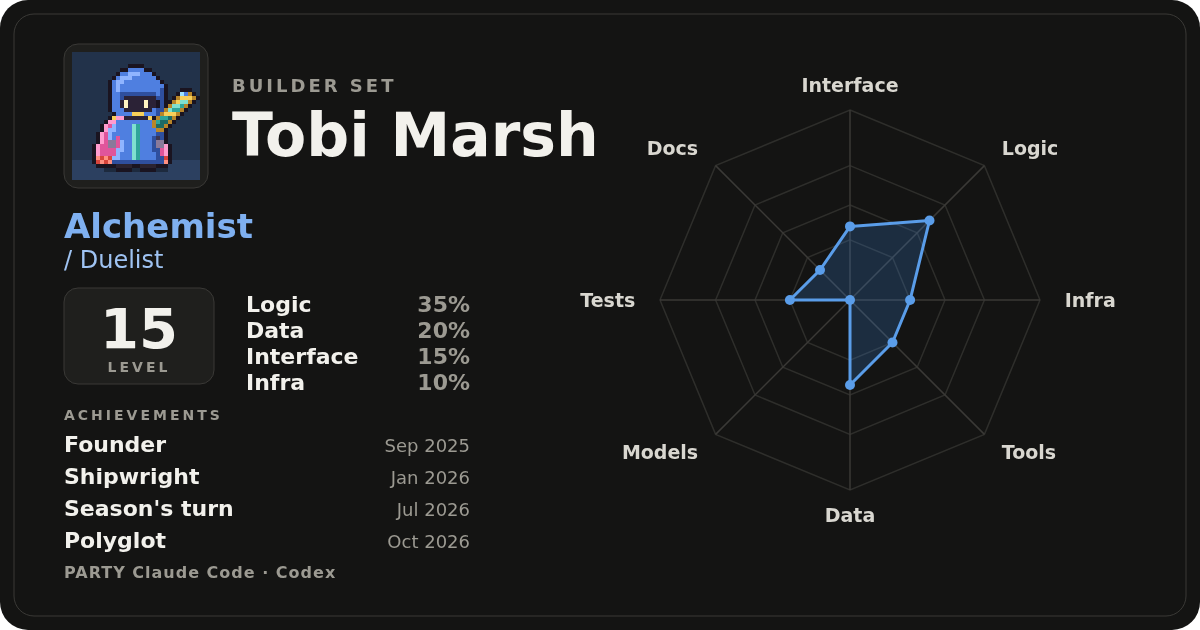
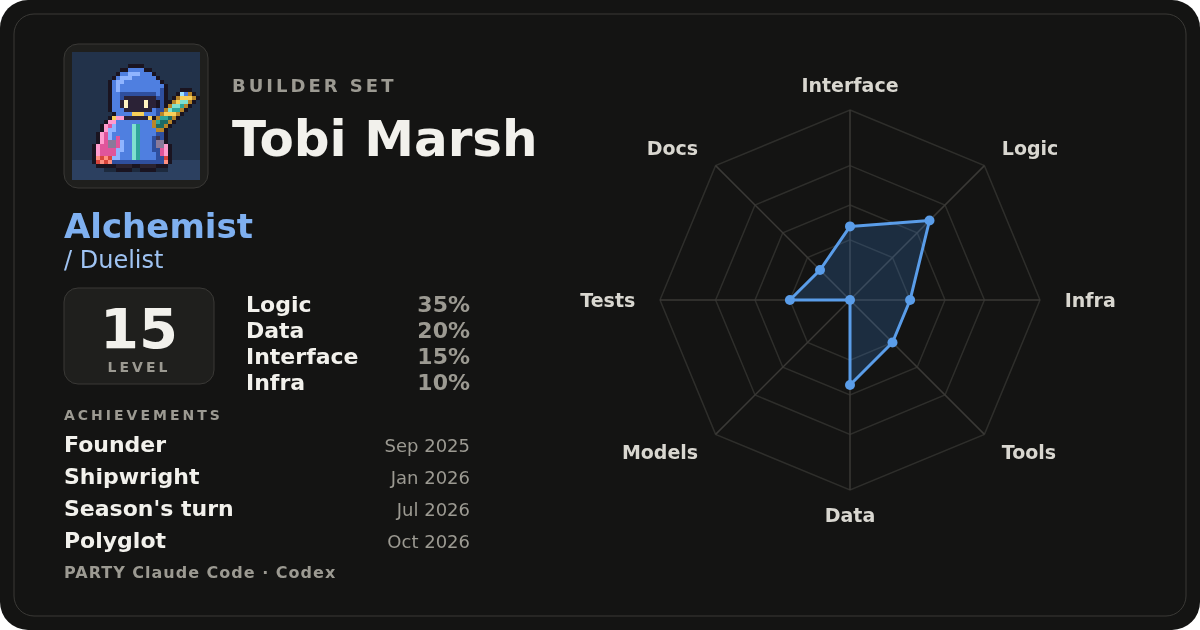
Card name steps down by glyph width and stays clear of the radar
The name's size comes from a fixed table of bold glyph widths, so wide names shrink
until they end at x 560, at least 16 px before the radar's top-left label. A test
checks names up to 28 characters, all-W names included.

Claude-Session: https://claude.ai/code/session_01VEmKQtCYERGHMJsPNdzkYW

Changed region(s): [[0.185, 0.1508, 0.4933, 0.2714]]

diff --git a/src/tinkerprint/render_card.py b/src/tinkerprint/render_card.py
@@ -69,7 +69,7 @@ def render_card(card: dict, pack: dict | None = None) -> str:
     out.append("</g>")
     # Left column: who and what.
     out.append(_t(TX, 92, v["set"], 18, 600, "#9c9a92", spacing="3"))
-    out.append(_t(TX, 156, v["name"], _fit(v["name"], 60, LEFT_WIDTH - (TX - 64)), 700))
+    out.append(_t(TX, 156, v["name"], name_size(v["name"]), 700))
     # Class names are never cut. Each line shrinks until it fits the left column.
     out.append(_t(64, 238, v["class"], _fit(v["class"], 34), 600, "#7fb0f0"))
     if v["multiclass"]:
@@ -143,6 +143,37 @@ def _bars(bars: list) -> list:
 
 
 LEFT_WIDTH = 540  # px from x=64 before the chart begins
+
+
+NAME_RIGHT = 560  # the name ends here, clear of the radar's top-left spoke label
+
+# Generous bold glyph widths in em, by class, so the widest system fonts still fit.
+_WIDE, _NARROW, _THIN = set("WMmw@"), set("ijlI.,'|!:;"), set("ftr")
+
+
+def text_em(text: str) -> float:
+    """The width of bold text in em: a fixed table, deterministic, on the wide side."""
+    em = 0.0
+    for ch in text:
+        if ch in _WIDE:
+            em += 1.05
+        elif ch in _NARROW:
+            em += 0.36
+        elif ch == " ":
+            em += 0.35
+        elif ch in _THIN:
+            em += 0.48
+        elif ch.islower():
+            em += 0.68
+        else:
+            em += 0.82
+    return em
+
+
+def name_size(name: str) -> int:
+    """The name's font size: 60 px, stepped down until the name fits between the portrait and
+    NAME_RIGHT. Deterministic, never cut beyond the card's 22-character clip."""
+    return max(12, min(60, int((NAME_RIGHT - TX) / max(1.0, text_em(name)))))
 
 
 def _fit(text: str, size: int, width: int = LEFT_WIDTH) -> int:

diff --git a/tests/test_art.py b/tests/test_art.py
@@ -253,6 +253,24 @@ class Built(unittest.TestCase):
         card["class"] = "Warden"
         self.assertNotEqual(render_card(card), before)
 
+    def test_long_names_stay_clear_of_the_radar(self):
+        """The name's box ends at least 16 px before the radar's top-left label starts, at any length."""
+        from tinkerprint import radar
+        from tinkerprint.render_card import text_em
+        base = self.out["wren"]["sheet"]["card"]
+        n = len(base["stats"])
+        lx, _ = radar.point(850, 300, 190, n - 1, n, radar.LABEL_AT)
+        label_start = lx - 0.62 * 19 * max(len(s["stat"]) for s in base["stats"])
+        for name in ("Wren Aldous", "Wilhelmina Montgomery-Wolfe", "W" * 28, "Mm" * 11):
+            card = dict(base, name=name)
+            svg = render_card(card)
+            m = re.search(r'<text x="([\d.]+)" y="156.0" font-size="(\d+)" font-weight="700"[^>]*>([^<]+)</text>', svg)
+            self.assertIsNotNone(m, name)
+            x, size, text = float(m.group(1)), int(m.group(2)), m.group(3)
+            self.assertEqual(text, name[:22] if len(name) <= 22 else name[:21].rstrip() + "…")
+            end = x + size * text_em(text)
+            self.assertLessEqual(end + 16, label_start, (name, size, end, label_start))
+
     def test_portrait_png_is_written_and_valid(self):
         for res in self.out.values():
             with open(res["paths"]["portrait"], "rb") as f:
